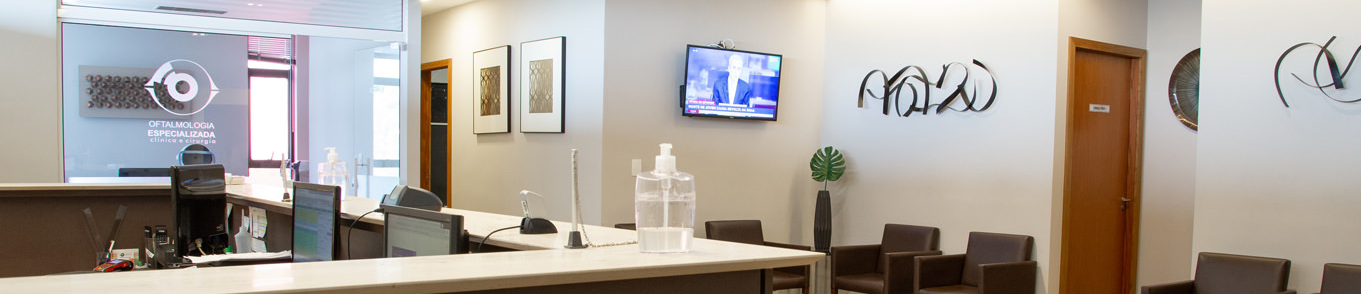
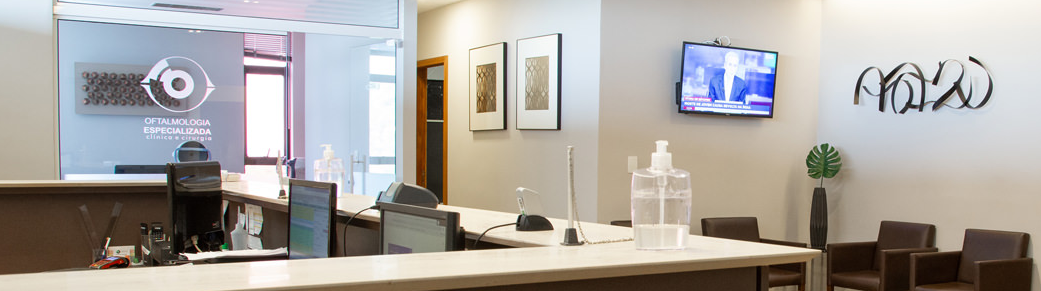
Modificações de estilo, estruturação realizada, preenchido boa parte dos requisitos do desafio

diff --git a/desafio2_criando_site_completo_com_html/about.html b/desafio2_criando_site_completo_com_html/about.html
@@ -6,36 +6,46 @@
     <meta name="viewport" content="width=device-width, initial-scale=1.0">
     <title>Clínica Todo Olhar</title>
     <link rel="stylesheet" href="base.css">
+    <link rel="preconnect" href="https://fonts.googleapis.com">
+    <link rel="preconnect" href="https://fonts.gstatic.com" crossorigin>
+    <link href="https://fonts.googleapis.com/css2?family=DM+Serif+Text&display=swap" rel="stylesheet">
 </head>
 <body>
     <div class="wrapper">
         <div class="menu">
             <h2>Todo Olhar</h2>
             <ul>
-                <li><a href="/home.html">Home</a></li>
-                <li><a href="/about.html">Sobre</a></li>
-                <li><a href="/opening_hours.html">Horários</a></li>
-                <li><a href="/contact.html">Contato</a></li>
+                <li><a href="/home.html"><button>Home</button></a></li>
+                <li><a href="/about.html"><button>Sobre</button></a></li>
+                <li><a href="/opening_hours.html"><button>Horários</button></a></li>
+                <li><a href="/contact.html"><button>Contato</button></a></li>
             </ul>
         </div>
 
         <div class="main">
             <div class="header">
+                <img src="/image2.png" width=100% alt="Imagem do interior da Clínica Todo Olhar">
             </div>
     
             <div class="content">
                 <h2>Sobre Nossa Clínica</h2>
                 <p>
-                  O Instituto São Lucas se modernizou e agora oferece uma infraestrutura completa e atualizada para a oftalmologia, com atendimento personalizado e humanizado, além de equipamentos de alta tecnologia para exames e cirurgias.
-                </p>
-                <p>
-                  Contamos também com centro cirúrgico ambulatorial que dispõe de amplas instalações e equipamentos ultramodernos, permitindo a realização de diversos procedimentos cirúrgicos com total segurança e qualidade para pacientes.
+                    Com mais de 30 anos de tradição, a clínica oftalmológica Todo Olhar está sempre com o seu compromisso de cuidar da visão em Uberlândia e região. Com mais um novo polo de cirurgias construido na cidade de Monte Carmelo, nossa clínica atente mais de 15 cidades da região com mais de 20 clínicas. É a nossa sólida experiência e com nossa equipe especializada para melhor atendê-lo. Esperamos seu contato para conhecer uma de nossas unidades. 
+                    Um estacionamento amplo e seguro garante a comodidade necessária aos visitantes. As salas de espera e as recepções são espaçosas, com poltronas confortáveis e uma vista agradável para o jardim. Todos os ambientes são climatizados, unindo conforto, modernidade, tecnologia e aconchego em cada espaço do hospital, que foi projetado para ser um centro completo de oftalmologia.
+
+O hospital conta com inúmeros consultórios, três salas de centro cirúrgico, modernos aparelhos de diagnósticos e tratamentos oftalmológicos, com uma estrutura apropriada para cada exame o que garante precisão e ótimos resultados. O corpo clínico é composto por médicos especializados em diferentes áreas da oftalmologia, além de colaboradores com treinamento especializado e atendimento humanizado.
+
+Nossa prioridade é oferecer um tratamento completo e de excelência, cuidando do paciente de forma individualizada, transmitindo a confiança necessária em nossa capacidade de cuidar de algo tão importante, que é a saúde dos olhos.
+
+O HCO é hoje um modelo de excelência e resolução nos procedimentos de: correção a laser de Miopia, Hipermetropia e Astigmatismo, além de cirurgias de Catarata, Retina, Glaucoma, Transplante de Córnea, Plástica Ocular entre outros. O hospital foi pioneiro na região e hoje conta com as técnicas mais modernas para correção da visão a laser, garantindo segurança e tranquilidade na hora de tratar a saúde ocular.
+
+O resultado desses mais de 33 anos de dedicação, é a confiança que os pacientes depositam no hospital e na equipe do HCO. Motivo de muito orgulho para todos.
                 </p>
             </div>
     
             <div class="footer">
                 <p>
-                  HCO – Av. Getúlio Vargas, 1700 – Daniel Fonseca – 38400-434 – Uberlândia –  MG 
+                  Todo Olhar – Av. ABCDE, 1700 – Paris – 38000-000 – Uberlândia –  MG 
                 </p>
                 <h6>Feito por: Matheus Henrique Ramos Mendes</h6>
             </div>

diff --git a/desafio2_criando_site_completo_com_html/contact.html b/desafio2_criando_site_completo_com_html/contact.html
@@ -6,36 +6,55 @@
     <meta name="viewport" content="width=device-width, initial-scale=1.0">
     <title>Clínica Todo Olhar</title>
     <link rel="stylesheet" href="base.css">
+    <link rel="preconnect" href="https://fonts.googleapis.com">
+    <link rel="preconnect" href="https://fonts.gstatic.com" crossorigin>
+    <link href="https://fonts.googleapis.com/css2?family=DM+Serif+Text&display=swap" rel="stylesheet">
 </head>
 <body>
     <div class="wrapper">
         <div class="menu">
             <h2>Todo Olhar</h2>
             <ul>
-                <li><a href="/home.html">Home</a></li>
-                <li><a href="/about.html">Sobre</a></li>
-                <li><a href="/opening_hours.html">Horários</a></li>
-                <li><a href="/contact.html">Contato</a></li>
+                <li><a href="/home.html"><button>Home</button></a></li>
+                <li><a href="/about.html"><button>Sobre</button></a></li>
+                <li><a href="/opening_hours.html"><button>Horários</button></a></li>
+                <li><a href="/contact.html"><button>Contato</button></a></li>
             </ul>
         </div>
 
         <div class="main">
             <div class="header">
+                <img src="/image4.png" width=100% alt="Imagem do interior da Clínica Todo Olhar">
             </div>
     
-            <div class="content">
-                <h2>Sobre Nossa Clínica</h2>
-                <p>
-                  O Instituto São Lucas se modernizou e agora oferece uma infraestrutura completa e atualizada para a oftalmologia, com atendimento personalizado e humanizado, além de equipamentos de alta tecnologia para exames e cirurgias.
-                </p>
-                <p>
-                  Contamos também com centro cirúrgico ambulatorial que dispõe de amplas instalações e equipamentos ultramodernos, permitindo a realização de diversos procedimentos cirúrgicos com total segurança e qualidade para pacientes.
-                </p>
+            <div class="content" class="frame">
+                <h2>Contato</h2>
+                    <p>Telefone de contato: 34 3232 3232</p>
+                    <p>Celular e Whatsapp: 34 9 9999 9999</p> 
+                    <p>
+                       Endereço: Todo Olhar – Av. ABCDE, 1700 – Paris – 38000-000 – Uberlândia –  MG 
+                    </p>
+                    <form>
+                        <fieldset>
+                          <legend>Entre em contato conosco</legend>  
+                            <label>Nome:</label><input type="text"><br>
+                            <label>Email:</label><input type="email"><br>
+                            <label>Assunto:</label><input type="text"><br>
+                            <label for="message">Mensagem:</label><textarea id="message"name="message"></textarea><br><br>
+                        <div class="buttons">
+                            <button type="reset">Limpar</button><br>
+                            <button type="submit">Enviar</button><br>
+                        </div>
+                        </fieldset>
+                        
+                    </form>
+                    <iframe src="https://www.google.com/maps/embed?pb=!1m18!1m12!1m3!1d3774.1786675777425!2d-48.29405035101389!3d-18.923484187112635!2m3!1f0!2f0!3f0!3m2!1i1024!2i768!4f13.1!3m3!1m2!1s0x94a4445887cc03ff%3A0xf2a29f333444af8a!2sHCO%20Centro%20Completo%20de%20Oftalmologia!5e0!3m2!1spt-BR!2sbr!4v1666448755199!5m2!1spt-BR!2sbr" width="980" height="350" style="border:0;" allowfullscreen="" loading="lazy" referrerpolicy="no-referrer-when-downgrade"></iframe>
+              
             </div>
     
             <div class="footer">
                 <p>
-                  HCO – Av. Getúlio Vargas, 1700 – Daniel Fonseca – 38400-434 – Uberlândia –  MG 
+                  Todo Olhar – Av. ABCDE, 1700 – Paris – 38000-000 – Uberlândia –  MG 
                 </p>
                 <h6>Feito por: Matheus Henrique Ramos Mendes</h6>
             </div>

diff --git a/desafio2_criando_site_completo_com_html/opening_hours.html b/desafio2_criando_site_completo_com_html/opening_hours.html
@@ -6,36 +6,78 @@
     <meta name="viewport" content="width=device-width, initial-scale=1.0">
     <title>Clínica Todo Olhar</title>
     <link rel="stylesheet" href="base.css">
+    <link rel="preconnect" href="https://fonts.googleapis.com">
+    <link rel="preconnect" href="https://fonts.gstatic.com" crossorigin>
+    <link href="https://fonts.googleapis.com/css2?family=DM+Serif+Text&display=swap" rel="stylesheet">
 </head>
 <body>
     <div class="wrapper">
         <div class="menu">
             <h2>Todo Olhar</h2>
             <ul>
-                <li><a href="/home.html">Home</a></li>
-                <li><a href="/about.html">Sobre</a></li>
-                <li><a href="/opening_hours.html">Horários</a></li>
-                <li><a href="/contact.html">Contato</a></li>
+                <li><a href="/home.html"><button>Home</button></a></li>
+                <li><a href="/about.html"><button>Sobre</button></a></li>
+                <li><a href="/opening_hours.html"><button>Horários</button></a></li>
+                <li><a href="/contact.html"><button>Contato</button></a></li>
             </ul>
         </div>
 
         <div class="main">
             <div class="header">
+                <img src="/image3.png" width=100% alt="Imagem do interior da Clínica Todo Olhar">
             </div>
     
             <div class="content">
-                <h2>Sobre Nossa Clínica</h2>
-                <p>
-                  O Instituto São Lucas se modernizou e agora oferece uma infraestrutura completa e atualizada para a oftalmologia, com atendimento personalizado e humanizado, além de equipamentos de alta tecnologia para exames e cirurgias.
-                </p>
-                <p>
-                  Contamos também com centro cirúrgico ambulatorial que dispõe de amplas instalações e equipamentos ultramodernos, permitindo a realização de diversos procedimentos cirúrgicos com total segurança e qualidade para pacientes.
-                </p>
+                <h2>Horário de Funcionamentos</h2>
+            <table border="1">
+                <thead>
+                    <tr>
+                        <th>Serviços</th>
+                        <th>Segunda a Sexta</th>
+                        <th>Sábados</th>
+                        <th>Domingo</th>
+                    </tr>
+                </thead>
+                <tbody>
+                    <tr>
+                        <td>Oftalmologia Geral</td>
+                        <td>08h - 19h</td>
+                        <td>08h - 14h</td>
+                        <td>08h - 14h</td>
+                    </tr>
+                    <tr>
+                        <td>Catarata</td>
+                        <td>08h - 19h</td>
+                        <td>08h - 14h</td>
+                        <td>08h - 14h</td>
+                    </tr>
+                    <tr>
+                        <td>Cirurgia Refrativa</td>
+                        <td>08h - 19h</td>
+                        <td>08h - 18h</td>
+                        <td>08h - 18h</td>
+                    </tr>
+                    <tr>
+                        <td>Glaucoma</td>
+                        <td>08h - 19h</td>
+                        <td>-</td>
+                        <td>-</td>
+                    </tr>
+                </tbody>
+                <tfoot>
+                    <tr>
+                        <td> </td>
+                        <td> </td>
+                        <td> </td>
+                        <td> </td>
+                    </tr>
+                </tfoot>
+            </table>
             </div>
     
             <div class="footer">
                 <p>
-                  HCO – Av. Getúlio Vargas, 1700 – Daniel Fonseca – 38400-434 – Uberlândia –  MG 
+                  Todo Olhar – Av. ABCDE, 1700 – Paris – 38000-000 – Uberlândia –  MG 
                 </p>
                 <h6>Feito por: Matheus Henrique Ramos Mendes</h6>
             </div>

diff --git a/desafio2_criando_site_completo_com_html/home.html b/desafio2_criando_site_completo_com_html/home.html
@@ -6,6 +6,10 @@
     <meta name="viewport" content="width=device-width, initial-scale=1.0">
     <title>Clínica Todo Olhar</title>
     <link rel="stylesheet" href="base.css">
+
+    <link rel="preconnect" href="https://fonts.googleapis.com">
+    <link rel="preconnect" href="https://fonts.gstatic.com" crossorigin>
+    <link href="https://fonts.googleapis.com/css2?family=DM+Serif+Text&display=swap" rel="stylesheet">
 </head>
 <body>
     <div class="wrapper">
@@ -21,21 +25,33 @@
 
         <div class="main">
             <div class="header">
+                <img src="/image1.png" width=100% alt="Imagem do interior da Clínica Todo Olhar">
             </div>
     
             <div class="content">
-                <h2>Sobre Nossa Clínica</h2>
+                <h2>Home</h2>
+            </p>
+            <p>
+              Todo olhar se modernizou e agora oferece uma infraestrutura completa e atualizada para a oftalmologia, com atendimento personalizado e humanizado, além de equipamentos de alta tecnologia para exames e cirurgias.
+            </p>
+            <p>
+              Contamos também com centro cirúrgico ambulatorial que dispõe de amplas instalações e equipamentos ultramodernos, permitindo a realização de diversos procedimentos cirúrgicos com total segurança e qualidade para pacientes.
+            </p>
                 <p>
-                  O Instituto São Lucas se modernizou e agora oferece uma infraestrutura completa e atualizada para a oftalmologia, com atendimento personalizado e humanizado, além de equipamentos de alta tecnologia para exames e cirurgias.
-                </p>
-                <p>
-                  Contamos também com centro cirúrgico ambulatorial que dispõe de amplas instalações e equipamentos ultramodernos, permitindo a realização de diversos procedimentos cirúrgicos com total segurança e qualidade para pacientes.
-                </p>
+                   <h3>Missão</h3> 
+                    Cuidar da saúde ocular através de um atendimento de excelência, moderno e humanizado visando o tratamento de doenças oftalmológicas e a melhoria na qualidade de vida.
+
+                    <h3>Visão</h3> 
+                    Ser referência como Centro Oftalmológico completo e inovador, que agrega conhecimento e tecnologia para oferecer resultados extraordinários
+
+                    <h3>Valores</h3> 
+                    Éticas, conhecimento, comprometimento, respeito, e dedicação
+             
             </div>
     
             <div class="footer">
                 <p>
-                  HCO – Av. Getúlio Vargas, 1700 – Daniel Fonseca – 38400-434 – Uberlândia –  MG 
+                  Todo Olhar – Av. ABCDE, 1700 – Paris – 38000-000 – Uberlândia –  MG 
                 </p>
                 <h6>Feito por: Matheus Henrique Ramos Mendes</h6>
             </div>

diff --git a/desafio2_criando_site_completo_com_html/base.css b/desafio2_criando_site_completo_com_html/base.css
@@ -1,5 +1,6 @@
 html, body {
   margin: 0;
+  font-family: 'DM Serif Text', serif;
 }
 body {
   background-color: #E8F1F2;
@@ -42,18 +43,40 @@ button:hover{
   flex-direction:column;
 }
 .header {
-  background-color: #006494;
+  background-color: #D8F1F2;
   min-height: 150px;
-  background-image:url(/image1.png);
   position:relative;
 }
 .content {
-  background-color: #E8F1F2;
+  background-color: #D8F1F2;
   min-height: 300px;
   padding: 20px;
+  text-align: justify;
+}
+.buttons{
+  display:flex;
+  gap: 10px;
+}
+
+button {
+  font-family: 'arial black';
+  font-weight: bold;
+  color: #14396A !important;
+  font-size: 14px;
+  text-shadow: 0px 0px 0px #14396A;
+  box-shadow: 0px 0px 0px #D8F1F2;
+  padding: 13px 40px;
+  border-radius: 5px;
+  border: 2px solid #FFFFFF;
+  background: #D8F1F2;
+}
+button:hover {
+  color: #14396A !important;
+  background: #407BA0;
 }
 .footer {
   background-color: #13293D;
+  color:white;
   min-height: 150px;
   display:flex;
   flex-direction: column;
